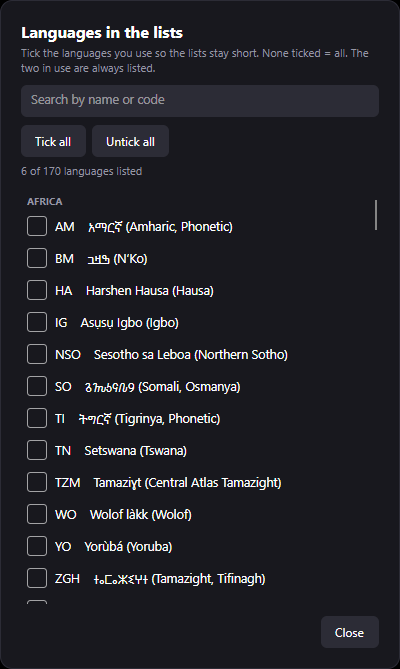
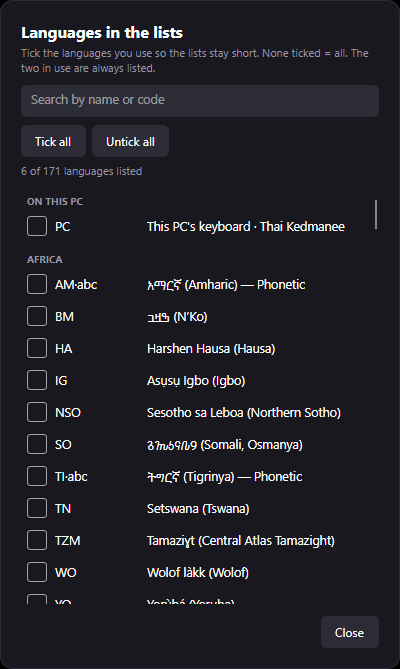
README for 1.2.2: any PC's keyboard, This PC's keyboard, search and tags, VMs; new screenshots

diff --git a/README.md b/README.md
@@ -23,6 +23,9 @@ for typing a language you don't have a keyboard for.
   the PC is exactly as before
 - **Private** — works offline; nothing you type is logged, stored or sent anywhere
 - **Any two languages** — not English-locked: German ↔ Thai, Japanese ↔ Korean, …
+- **Any PC's keyboard** — on a French, German or UK keyboard, Thai and every other
+  language still type by key position, as the on-screen board shows; pick *This PC's
+  keyboard* to type what that PC's keys say
 - **Input methods built in** — Chinese, Japanese, Korean, Vietnamese, and 20
   languages typed as they sound (namaste → नमस्ते, privet → привет, sawasdee → สวัสดี)
 - **Interface in English and ไทย**, with an illustrated User Guide and FAQ inside the app
@@ -96,12 +99,21 @@ stores what you type, so it doesn't learn new words.
 Besides the input methods, MULAKE has the keyboard layouts of Windows itself — Thai
 Kedmanee and Pattachote, Lao, Arabic, Hebrew, Russian, Greek, Georgian, Armenian, the
 European layouts, Indic, African and many more — including Shift, AltGr and dead keys,
-so each one types exactly what the same Windows layout would. The pickers are grouped
-by continent, and **Settings → Languages in the ① ② lists** keeps them to the ones
-you use. Need the plain keyboard for a moment? Click the green switch in the header to
-pause MULAKE.
+so each one types exactly what the same Windows layout would.
 
-<img src="images/dropdown.png" alt="Language picker" width="300">&nbsp;&nbsp;<img src="images/settings.png" alt="Settings" width="260">
+- Keys type by their **position**, whatever layout the PC is set to, so a Thai
+  Kedmanee or Russian typist on a French AZERTY or German QWERTZ PC still hits the
+  right letters. **This PC's keyboard** (at the top of the list) types what that PC's
+  keys say instead — pair it with your language: ① PC, ② Thai.
+- Find a language by typing in the list: `fr`, `french`, `ไทย`, `中文`. Forms of one
+  language carry a tag: a standard region or script (`FR-CA`, `PT-BR`, `ES-419`,
+  `SR-LATN`) or a keyboard / input method (`TH·pat`, `ZH·注音`, `JA·かな`; `·abc` =
+  typed as it sounds).
+- **Settings → Languages in the ① ② lists** keeps the lists to the ones you use.
+  Need the plain keyboard for a moment? Click the green switch in the header to pause
+  MULAKE.
+
+<img src="images/dropdown.png" alt="Language list with search and tags" width="330">&nbsp;&nbsp;<img src="images/settings.png" alt="Settings" width="250">
 
 You can also add your own layout as a small `.json` file — see **User Guide → Add
 your own language**.
@@ -118,6 +130,9 @@ keyboard settings.
 - Apps running **as administrator**, the **sign-in / UAC screens** and some **games**
   don't accept typing from normal apps — that's Windows' own protection. Pause MULAKE
   there.
+- **Virtual machines** (VMware, VirtualBox, Hyper-V) pass only key presses to the
+  guest, so MULAKE can't type into a VM's window — it leaves those keys alone and says
+  so in its header. Run MULAKE inside the VM instead.
 - **Chinese in Windows 11 Notepad** may show as boxes (Notepad picks the font from
   your Windows keyboard language). Choose a Chinese font in Notepad, e.g. Microsoft
   YaHei; other apps are fine.
@@ -152,6 +167,9 @@ MULAKE is free. If it helps you, ☕ [buy me a coffee](https://www.buymeacoffee.
 - ไม่เพิ่มคีย์บอร์ดและไม่แก้การตั้งค่า Windows ปิดโปรแกรมแล้วเครื่องเหมือนเดิม
 - ทำงานออฟไลน์ ไม่เก็บ ไม่จำ และไม่ส่งสิ่งที่พิมพ์ไปไหน
 - เลือกสองภาษาใดก็ได้ แล้วกดปุ่มเดียวสลับไปมา (ค่าเริ่มต้นคือปุ่ม `` ` ``)
+- ใช้ได้กับเครื่องที่ตั้งแป้นภาษาอื่น เช่น ฝรั่งเศส เยอรมัน หรืออังกฤษ UK ภาษาไทยยังพิมพ์ตามตำแหน่งปุ่ม
+  ถูกต้อง และถ้าอยากพิมพ์ตามตัวที่เขียนบนปุ่มของเครื่องนั้น ให้เลือก “แป้นของเครื่องนี้”
+- ค้นหาภาษาในรายการได้ (fr, french, ไทย, 中文) และมีป้ายแยกแบบ เช่น FR-CA, TH·pat, ZH·注音
 - มีระบบป้อนข้อความในตัว: จีน (พินอิน จู้อิน ชางเจี๋ย) กวางตุ้ง ญี่ปุ่น (โรมาจิ คานะ)
   เกาหลี (2 ชุด 3 ชุด) เวียดนาม (Telex VNI) และอีก 20 ภาษาที่พิมพ์ตามเสียง เช่น
   `namaste` → नमस्ते, `privet` → привет, `sawasdee` → สวัสดี
